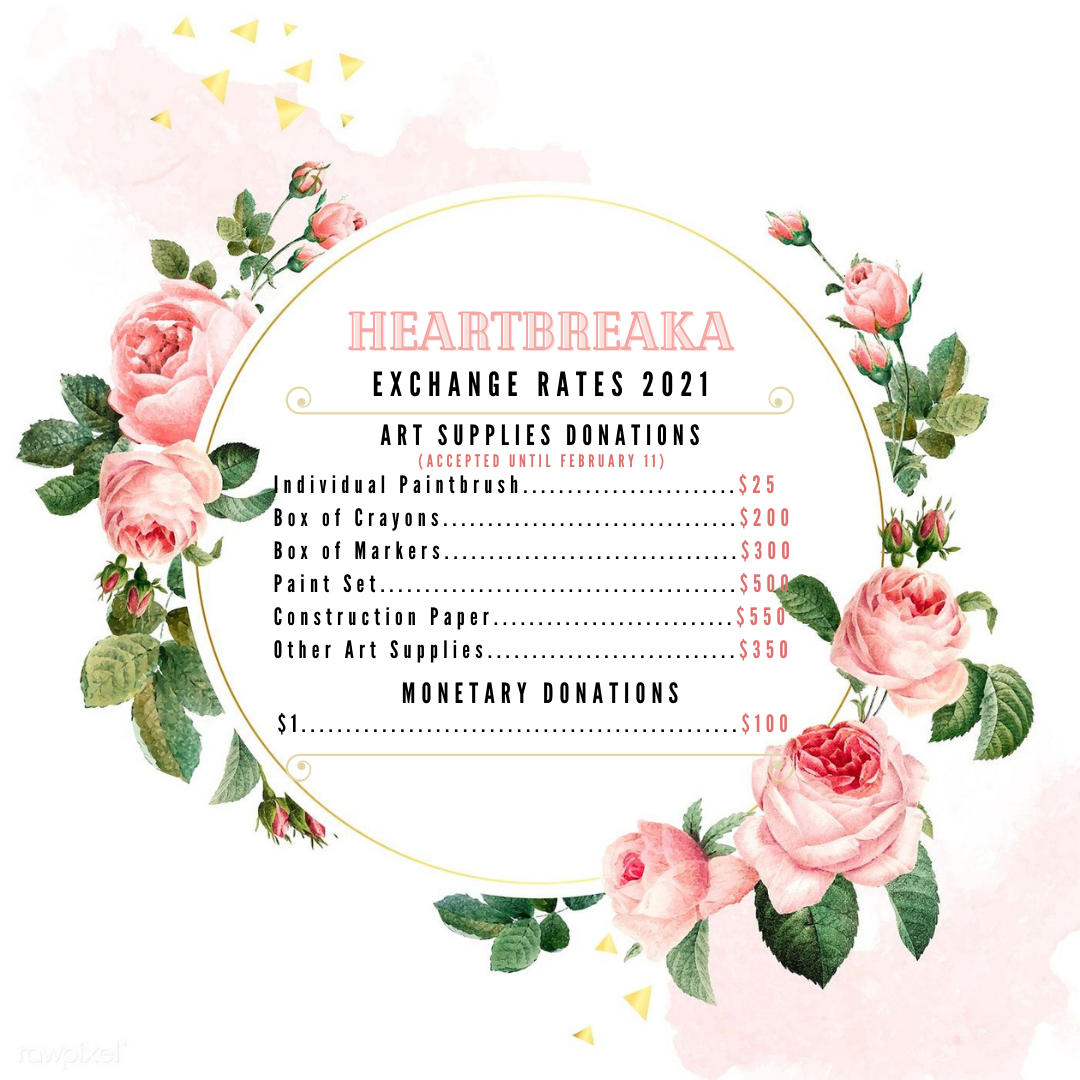
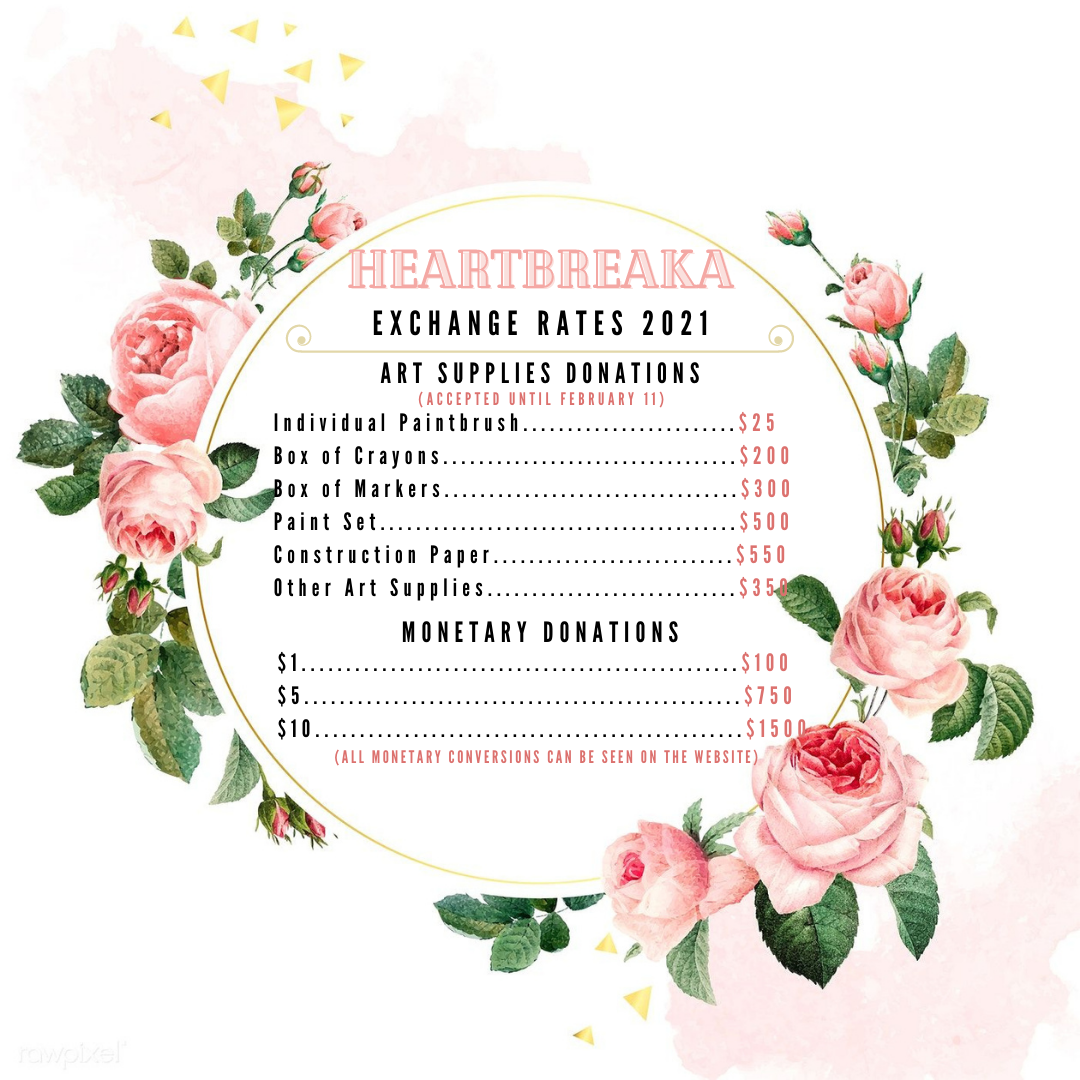
Update monetary exchange rates

Changed region(s): [[0.2444, 0.2139, 0.7333, 0.7333]]

diff --git a/js/donations-money.js b/js/donations-money.js
@@ -1,10 +1,11 @@
 let form = document.forms.monetary;
-console.log(form);
 
 function updateAKADollars() {
-  console.log(form.amount);
   var dollars = form.amount.value;
-  document.getElementById("aka_dollars").innerHTML = "AKA Dollars Amount: " + (dollars * 100);
+  var conversion = Math.floor(dollars / 5);
+  var total_conversion = 250 * conversion;
+  var total = ((dollars * 100) + total_conversion);
+  document.getElementById("aka_dollars").innerHTML = "AKA Dollars Amount: " + total;
 }
 
 // function submitForm() {

diff --git a/css/donations-money.css b/css/donations-money.css
@@ -76,3 +76,10 @@ h3 {
 .monetary_donations_attendee ol {
   margin-left: 30px;
 }
+
+img {
+  width: 50%;
+  margin-left: auto;
+  margin-right: auto;
+  display: block;
+}

diff --git a/css/donations-dropbox.css b/css/donations-dropbox.css
@@ -72,5 +72,8 @@ p {
 }
 
 img {
-  width: 450px;
+  width: 50%;
+  margin-left: auto;
+  margin-right: auto;
+  display: block;
 }

diff --git a/donations-admin-list.php b/donations-admin-list.php
@@ -57,7 +57,11 @@ if (isset($_POST['mark_completed'])) {
         if ($type == "Monetary Donation") {
             if ($approved == "Approve") {
                 $donation_amount = $messageArr[' Amount ($)'];
-                $bank_monetary = $donation_amount * 100;
+                $donation_monetary = $donation_amount * 100;
+                $conversion = intdiv($donation_amount, 5);
+                $total_conversion = 250 * $conversion;
+                $bank_monetary = $donation_monetary + $total_conversion;
+
                 if ($is_attendee) {
                     $attendee_id = $find_attendee_info_result[0]['attendeeId'];
                     $update_attendee_monetary = "UPDATE aka.attendees

diff --git a/donations-money.php b/donations-money.php
@@ -36,6 +36,7 @@ require_once("createflags.php");
       You can use the following payment methods to make a contribution and follow
       the instructions to make your donation:
     </p><br>
+    <img src="images/exchange_rates.png" alt="">
     <div class="payment_rows">
         <div class="column_left">
           <h3>PayPal</h3>
@@ -123,6 +124,7 @@ require_once("createflags.php");
           }
       }
       ?>
+    <img src="images/exchange_rates.png" alt="">
     <form class="monetary_donations_form" action="" method="post" name="monetary"
           onsubmit="submitForm()">
         <label for="name">Name</label>
